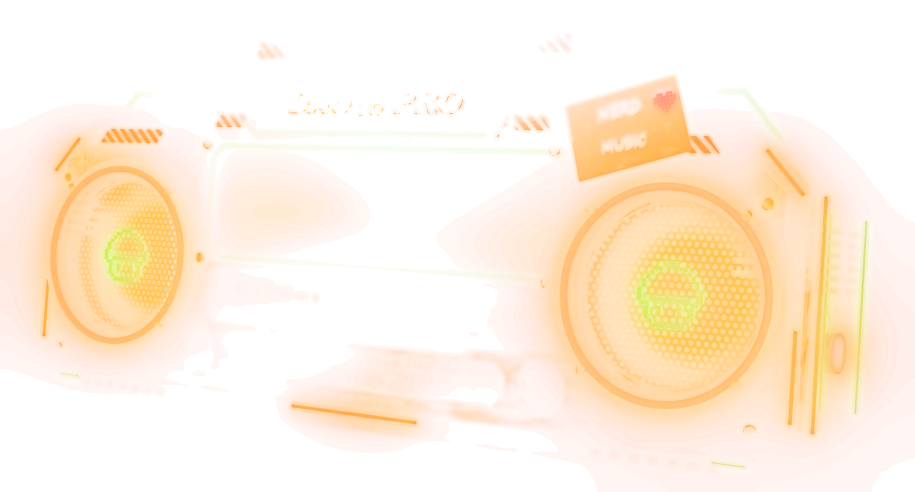
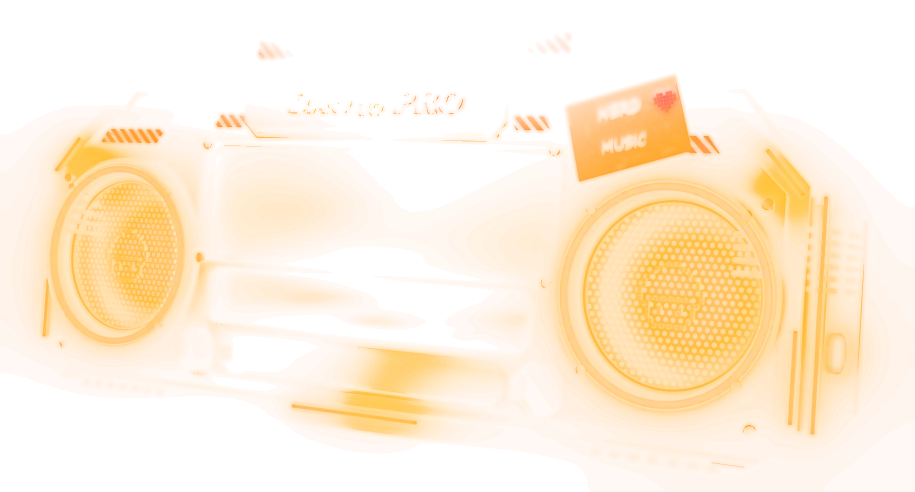
NERD RADIO: ruhiges Metall statt Foto-Texturen, Tastensymbole perspektivisch, Licht nur bei Musik

diff --git a/dau-to-pro/nerd-radio.css b/dau-to-pro/nerd-radio.css
@@ -39,7 +39,9 @@
 
 /* ---------- Echtes Licht: Lichtebenen (Deckkraft = Lichtstärke), Helligkeit folgt der Musik ---------- */
 .nr-light{position:absolute;inset:0;z-index:2;width:100%;height:100%;display:block;pointer-events:none;user-select:none;
-  opacity:.75;will-change:opacity}
+  opacity:.06;will-change:opacity}
+/* Ein- und Ausschalten weich, beim Abspielen folgt die Helligkeit direkt der Musik */
+.nr-device:not([data-state=playing]) .nr-light{transition:opacity .8s ease-out}
 
 /* ---------- Schräge Front: Display und Regler werden per matrix3d auf die Gehäusefront gelegt ---------- */
 .nr-face{position:absolute;left:0;top:0;z-index:3;width:1000px;height:450px;transform-origin:0 0;pointer-events:none;container-type:size;visibility:hidden}
@@ -98,15 +100,12 @@
 .nr-transport,.nr-lower{display:contents}
 .nr-key{position:absolute;z-index:4;display:grid;place-items:center;margin:0;padding:0;border:0;cursor:pointer;color:#eafaff;
   background:center/100% 100% no-repeat;transition:filter .16s;-webkit-tap-highlight-color:transparent}
-.nr-key svg{rotate:var(--nr-roll,0deg);width:30%;height:34%;fill:currentColor;filter:drop-shadow(0 0 .45cqw currentColor);pointer-events:none;transition:transform .07s}
+/* Die Symbole sind perspektivisch in die Tasten-Renders eingebaut; die SVGs bleiben nur als Rückfall im Markup */
+.nr-key svg{display:none}
 .nr-key:hover{filter:brightness(1.18) saturate(1.15) drop-shadow(0 0 .7cqw #22dcf577)}
-.nr-key:active svg,.nr-key.is-down svg{transform:translateY(4%) scale(.96)}
 .nr-key:focus-visible{outline:.32cqw solid #fff;outline-offset:-.6cqw;border-radius:1cqw}
-.nr-key--play .nr-icon-pause{display:none}
 .nr-device[data-state=playing] .nr-key--play{color:#ffc650}
 .nr-device[data-state=playing] .nr-key--play:hover{filter:brightness(1.15) drop-shadow(0 0 .8cqw #ff9a1488)}
-.nr-device[data-state=playing] .nr-key--play .nr-icon-play{display:none}
-.nr-device[data-state=playing] .nr-key--play .nr-icon-pause{display:block}
 .nr-key--gold{color:#ffc53d}
 .nr-key--round svg{width:42%;height:42%}
 .nr-key--gold-rim,.nr-key--round[aria-pressed=true]{color:#ffd06a}

diff --git a/dau-to-pro/nerd-radio.js b/dau-to-pro/nerd-radio.js
@@ -327,18 +327,21 @@
     ui.play.setAttribute('aria-label', playing ? 'Pause' : 'Abspielen');
     const t = current();
     ui.status.textContent = playing ? `Spielt: ${two(selected + 1)} – ${t.title}` : next === 'paused' ? 'Pausiert' : 'Gestoppt';
-    if (next === 'stopped') { bars.fill(0); peaks.fill(0); waveAmp = 0; bass = 0; treble = 0; applyBass(); }
+    if (next === 'stopped') { bars.fill(0); peaks.fill(0); waveAmp = 0; bass = 0; treble = 0; }
+    applyBass();
     render();
     wake();
   }
 
   // Echte Beleuchtung: die gerenderten Lichtebenen werden mit der Musik heller und dunkler.
   // Gold (Lautsprecherringe, Schultern, Sockel) folgt dem Bass, Cyan (Neonrahmen, Pilze) den Höhen.
+  // Ohne Musik sind die Leuchten aus (nur ein schwacher Bereitschaftsschimmer).
+  const STANDBY = 0.06;
   function applyBass() {
-    const calm = reduced.matches;
+    const calm = reduced.matches, on = state === 'playing';
     ui.cones.forEach(c => { c.style.transform = calm || !bass ? '' : `scale(${(1 + bass * 0.025).toFixed(3)})`; });
-    const gold = calm ? 0.85 : 0.62 + 0.38 * Math.min(1, bass * 1.35);
-    const cyan = calm ? 0.85 : 0.65 + 0.35 * Math.min(1, treble * 1.8);
+    const gold = !on ? STANDBY : calm ? 0.9 : 0.3 + 0.7 * Math.min(1, bass * 1.5);
+    const cyan = !on ? STANDBY : calm ? 0.9 : 0.4 + 0.6 * Math.min(1, treble * 2);
     const key = gold.toFixed(2) + cyan.toFixed(2);
     if (key === lastLight) return;
     lastLight = key;

diff --git a/dau-to-pro/nerd-radio/layout.css b/dau-to-pro/nerd-radio/layout.css
@@ -1,5 +1,5 @@
 /* Generiert von tools/nerd-radio/build_boombox.py – nicht von Hand ändern. */
-.nr-device{aspect-ratio:1830/984;--nr-face:"0.06271 0.06648 0.92512 0.00704 0.89320 1.01800 0.03367 0.78560";--nr-roll:0deg}
+.nr-device{aspect-ratio:1830/984;--nr-face:"0.06271 0.06648 0.92512 0.00704 0.89320 1.01800 0.03367 0.78560"}
 .nr-speaker--l{left:6.261%;top:33.973%;width:15.600%;height:37.028%}
 .nr-speaker--l .nr-speaker__cone{background-image:url(cone-0.webp)}
 .nr-speaker--r{left:61.772%;top:37.416%;width:23.852%;height:47.203%}

diff --git a/tools/nerd-radio/build_boombox.py b/tools/nerd-radio/build_boombox.py
@@ -8,9 +8,6 @@ Cyan und Gold, Membranen, Tasten je Platz und Zustand), layout.css und anchors.j
 Bedienelemente. Die Website legt echte HTML-Tasten, Display und Regler darüber.
 Im Gehäuse-Render sind deshalb keine Tasten und keine Anzeige enthalten.
 
-Metalloberflächen nutzen CC0-Foto-Texturen von Poly Haven (metal_plate_02, rusty_painted_metal,
-rusty_metal_02). Das Skript lädt sie beim ersten Lauf nach tools/nerd-radio/textures/ (nicht im Repo).
-
 Koordinaten: Entwurf im 1000 x 450 Layoutraster (x nach rechts, y nach unten),
 1 Blender-Einheit = 100 Layoutpixel. Vorderseite des Korpus liegt bei Y = 0,
 der Korpus reicht nach hinten (+Y). Kamera blickt von vorn (-Y) leicht von oben.
@@ -109,36 +106,6 @@ def subtract(target, *cutters):
         w, s = bev.width, bev.segments; target.modifiers.remove(bev)
         b = target.modifiers.new('bevel', 'BEVEL'); b.width = w; b.segments = s; b.limit_method = 'ANGLE'
 
-# ---------------------------------------------------------------- Foto-Texturen (Poly Haven, CC0)
-# Werden beim ersten Lauf von Poly Haven geladen und in tools/nerd-radio/textures/ zwischengespeichert
-# (per .gitignore nicht im Repo). Fehlen sie und es gibt kein Netz, bleibt es bei den prozeduralen Materialien.
-TEX_DIR = os.path.join(os.path.dirname(os.path.abspath(__file__)), 'textures')
-TEXTURES = {'metal_plate_02': ('Diffuse', 'nor_gl', 'Rough'),
-            'rusty_painted_metal': ('Diffuse',),
-            'rusty_metal_02': ('Diffuse',)}
-def fetch_textures():
-    import urllib.request
-    have = {}
-    for asset, maps in TEXTURES.items():
-        try:
-            files = None
-            for m in maps:
-                path = os.path.join(TEX_DIR, f'{asset}_{m}_2k.jpg')
-                if not os.path.exists(path):
-                    if files is None:
-                        req = urllib.request.Request(f'https://api.polyhaven.com/files/{asset}', headers={'User-Agent': 'nerd-radio-build'})
-                        files = json.load(urllib.request.urlopen(req, timeout=30))
-                    url = files[m]['2k']['jpg']['url']
-                    os.makedirs(TEX_DIR, exist_ok=True)
-                    req = urllib.request.Request(url, headers={'User-Agent': 'nerd-radio-build'})
-                    with urllib.request.urlopen(req, timeout=120) as r, open(path + '.part', 'wb') as f: f.write(r.read())
-                    os.replace(path + '.part', path); print('TEXTURE', os.path.basename(path))
-                have.setdefault(asset, {})[m] = path
-        except Exception as e:
-            print('TEXTURE fehlt', asset, e); have.pop(asset, None)
-    return have
-TEX = fetch_textures()
-
 # ---------------------------------------------------------------- Materialien
 def nodes(mat):
     mat.use_nodes = True; nt = mat.node_tree
@@ -197,71 +164,33 @@ def edge_mask(nt, radius=0.012, gain=7.0):
     inv = math_node(nt, 'SUBTRACT', 1.0, dot.outputs['Value'])
     return math_node(nt, 'MULTIPLY', inv, gain, clamp=True)
 
-def tex(nt, asset, m, scale=0.55, color=False):
-    """Foto-Textur per Box-Projektion in Weltkoordinaten (keine UVs nötig, keine Verzerrung bei skalierten Objekten)."""
-    if m not in TEX.get(asset, {}): return None
-    img = bpy.data.images.load(TEX[asset][m], check_existing=True)
-    img.colorspace_settings.name = 'sRGB' if color else 'Non-Color'
-    n = nt.nodes.new('ShaderNodeTexImage'); n.image = img; n.projection = 'BOX'; n.projection_blend = 0.25
-    geo = nt.nodes.new('ShaderNodeNewGeometry'); mp = nt.nodes.new('ShaderNodeMapping')
-    mp.inputs['Scale'].default_value = (scale,) * 3
-    seed = sum(map(ord, asset + name_seed[0]))   # fester Versatz je Material, damit sich das Muster nicht wiederholt
-    mp.inputs['Location'].default_value = (seed % 97 / 97, seed % 89 / 89, seed % 83 / 83)
-    nt.links.new(geo.outputs['Position'], mp.inputs[0]); nt.links.new(mp.outputs[0], n.inputs['Vector'])
-    return n.outputs['Color']
-name_seed = ['']
-def lum(nt, c):
-    n = nt.nodes.new('ShaderNodeRGBToBW'); nt.links.new(c, n.inputs[0]); return n.outputs[0]
-
-def math_vec_scale(nt, c, k):
-    n = nt.nodes.new('ShaderNodeVectorMath'); n.operation = 'SCALE'; nt.links.new(c, n.inputs[0]); n.inputs['Scale'].default_value = k
-    return n.outputs[0]
-
 def mat_metal(name, base=(0.05, 0.06, 0.07), rust=0.55, wear=1.0, rough=0.42):
     """Dunkles Gunmetal mit Kantenabrieb, Kratzern, Schmutz und Rostflecken."""
-    m = bpy.data.materials.new(name); nt = nodes(m); name_seed[0] = name
+    m = bpy.data.materials.new(name); nt = nodes(m)
     b = principled(nt, **{'Metallic': 1.0, 'Roughness': rough})
     grime = noise(nt, 6, 8, 0.6).outputs['Fac']
-    col = mix_color(nt, ramp(nt, grime, [(0.35, (0, 0, 0)), (0.7, (1, 1, 1))]), base, tuple(c * 1.6 for c in base))
-    plate = tex(nt, 'metal_plate_02', 'Diffuse', color=True)
-    if plate:   # Fotostruktur der Metallplatte, auf den dunklen Grundton eingefärbt
-        tint = nt.nodes.new('ShaderNodeMix'); tint.data_type = 'RGBA'; tint.blend_type = 'MULTIPLY'
-        sock(tint, 'Factor_Float').default_value = 1.0
-        nt.links.new(col, sock(tint, 'A_Color')); nt.links.new(plate, sock(tint, 'B_Color'))
-        col = math_vec_scale(nt, sock(tint, 'Result_Color'), 3.2)
+    col = mix_color(nt, ramp(nt, grime, [(0.3, (0, 0, 0)), (0.75, (1, 1, 1))]), base, tuple(c * 1.25 for c in base))
     # Rost: großflächige Flecken, bevorzugt an Rändern und in Vertiefungen
     rn = noise(nt, 2.2, 10, 0.7).outputs['Fac']
     rmask = ramp(nt, rn, [(0.58 - 0.12 * rust, (0, 0, 0)), (0.66 - 0.1 * rust, (1, 1, 1))])
     rmask = math_node(nt, 'MULTIPLY', ramp(nt, noise(nt, 18, 4).outputs['Fac'], [(0.4, (0.2, 0.2, 0.2)), (0.6, (1, 1, 1))]), rmask)
     rmask = math_node(nt, 'MULTIPLY', rmask, rust)
     rustc = mix_color(nt, noise(nt, 30, 3).outputs['Fac'], (0.16, 0.06, 0.02), (0.38, 0.17, 0.05))
-    rust_photo = tex(nt, 'rusty_metal_02', 'Diffuse', scale=0.8, color=True)
-    if rust_photo: rustc = mix_color(nt, 0.8, rustc, rust_photo)
-    paint = tex(nt, 'rusty_painted_metal', 'Diffuse', scale=0.7, color=True)
-    if paint:   # Rostflecken folgen zusätzlich der Fotovorlage
-        rmask = math_node(nt, 'MULTIPLY', rmask, ramp(nt, lum(nt, paint), [(0.25, (1.4, 1.4, 1.4)), (0.6, (0.5, 0.5, 0.5))]), clamp=True)
     col = mix_color(nt, rmask, col, rustc)
     # Kantenabrieb: blankes, helleres Metall an allen Fasen
     em = math_node(nt, 'MULTIPLY', edge_mask(nt), wear)
-    chip = lum(nt, paint) if paint else noise(nt, 40, 2).outputs['Fac']
-    em = math_node(nt, 'MULTIPLY', em, ramp(nt, chip, [(0.35, (0.25, 0.25, 0.25)), (0.55, (1, 1, 1))]))
+    em = math_node(nt, 'MULTIPLY', em, ramp(nt, noise(nt, 40, 2).outputs['Fac'], [(0.35, (0.25, 0.25, 0.25)), (0.55, (1, 1, 1))]))
     col = mix_color(nt, em, col, (0.42, 0.44, 0.46))
     nt.links.new(col, b.inputs['Base Color'])
     metal = math_node(nt, 'SUBTRACT', 1.0, rmask)
     nt.links.new(metal, b.inputs['Metallic'])
     scratches = noise(nt, 60, 2, 0.5, stretch=(1, 1, 40)).outputs['Fac']
     r = ramp(nt, scratches, [(0.45, (rough + 0.12,) * 3), (0.62, (rough - 0.18,) * 3)])
-    prough = tex(nt, 'metal_plate_02', 'Rough')
-    if prough: r = math_node(nt, 'ADD', math_node(nt, 'MULTIPLY', r, 0.55), math_node(nt, 'MULTIPLY', lum(nt, prough), 0.45 * rough / 0.42))
     r = math_node(nt, 'MAXIMUM', r, math_node(nt, 'MULTIPLY', rmask, 0.95))
     r = math_node(nt, 'SUBTRACT', r, math_node(nt, 'MULTIPLY', em, 0.18))
     nt.links.new(r, b.inputs['Roughness'])
     bump = nt.nodes.new('ShaderNodeBump'); bump.inputs['Strength'].default_value = 0.18
     nt.links.new(math_node(nt, 'ADD', math_node(nt, 'MULTIPLY', scratches, 0.4), math_node(nt, 'MULTIPLY', rmask, 1.2)), bump.inputs['Height'])
-    pnor = tex(nt, 'metal_plate_02', 'nor_gl')
-    if pnor:   # Normalen der Foto-Metallplatte (metal_plate_02), Bump für Kratzer und Rost oben drauf
-        nm = nt.nodes.new('ShaderNodeNormalMap'); nm.inputs['Strength'].default_value = 1.0
-        nt.links.new(pnor, nm.inputs['Color']); nt.links.new(nm.outputs['Normal'], bump.inputs['Normal'])
     nt.links.new(bump.outputs['Normal'], b.inputs['Normal'])
     return m
 
@@ -315,18 +244,21 @@ def mat_card(name):
     return m
 
 CYAN, GOLD, ORANGE = (0.0, 0.62, 1.0), (1.0, 0.42, 0.0), (1.0, 0.22, 0.0)
+GLASS = (0.035, 0.04, 0.045)
 M = {
-    'body': mat_metal('body', (0.024, 0.03, 0.038), rust=0.34, wear=1.4),
-    'panel': mat_metal('panel', (0.036, 0.043, 0.052), rust=0.26, wear=1.4, rough=0.36),
-    'dark': mat_metal('dark', (0.02, 0.023, 0.027), rust=0.15, wear=0.5, rough=0.5),
-    'handle': mat_metal('handle', (0.03, 0.035, 0.042), rust=0.3, rough=0.34),
-    'badge': mat_metal('badge', (0.045, 0.05, 0.056), rust=0.2, rough=0.3),
+    # Ruhiges, sauberes Gunmetal: nur leichter Kantenabrieb, kaum Rost (wirkt weniger nach CGI-Effekt)
+    'body': mat_metal('body', (0.04, 0.046, 0.054), rust=0.06, wear=0.6, rough=0.38),
+    'panel': mat_metal('panel', (0.055, 0.062, 0.072), rust=0.04, wear=0.6, rough=0.34),
+    'dark': mat_metal('dark', (0.026, 0.03, 0.035), rust=0.0, wear=0.3, rough=0.48),
+    'handle': mat_metal('handle', (0.045, 0.05, 0.058), rust=0.04, wear=0.6, rough=0.32),
+    'badge': mat_metal('badge', (0.07, 0.076, 0.084), rust=0.0, wear=0.5, rough=0.28),
     'chrome': mat_simple('chrome', (0.85, 0.88, 0.9), 1.0, 0.12),
     'goldmetal': mat_simple('goldmetal', (1.0, 0.68, 0.18), 1.0, 0.22),
-    'neon_c': mat_simple('neon_c', CYAN, emit=CYAN, strength=2.6),
-    'neon_g': mat_simple('neon_g', GOLD, emit=GOLD, strength=2.6),
-    'ring_g': mat_simple('ring_g', GOLD, emit=GOLD, strength=2.0),
-    'pixel_c': mat_simple('pixel_c', CYAN, emit=CYAN, strength=2.2),
+    # Leuchtmittel: ausgeschaltet dunkles Glas (kein farbiger Schein ohne Musik), Farbe nur über die Emission
+    'neon_c': mat_simple('neon_c', GLASS, rough=0.2, emit=CYAN, strength=2.6),
+    'neon_g': mat_simple('neon_g', GLASS, rough=0.2, emit=GOLD, strength=2.6),
+    'ring_g': mat_simple('ring_g', GLASS, rough=0.2, emit=GOLD, strength=2.0),
+    'pixel_c': mat_simple('pixel_c', GLASS, rough=0.3, emit=CYAN, strength=2.2),
     'hazard': mat_hazard('hazard'),
     'grille': mat_grille('grille'),
     'card': mat_card('card'),
@@ -511,6 +443,45 @@ def key(name, box, rim_mat, depth_front, cut=12):
     base = prism(f'key_{name}_rim', rect(x0, y0, x1, y1, cut), depth_front + 0.035, 0.12, rim_mat, bevel=0.01, coll='keys')
     cap = prism(f'key_{name}_cap', rect(x0 + 3.5, y0 + 3.5, x1 - 3.5, y1 - 3.5, cut - 2), depth_front, 0.16, M['keycap'], bevel=0.025, segs=4, coll='keys')
     return base, cap
+# Tastensymbole als leuchtende Geometrie auf der Kappe: sitzen perspektivisch exakt (24er-Raster wie die SVG-Icons)
+def bezier(p0, p1, p2, p3, n=14):
+    return [tuple((1 - t) ** 3 * a + 3 * (1 - t) ** 2 * t * b + 3 * (1 - t) * t ** 2 * c + t ** 3 * d for a, b, c, d in zip(p0, p1, p2, p3))
+            for t in (i / n for i in range(n + 1))]
+ICONS = {
+    'prev': {'polys': [[(4, 5), (6.6, 5), (6.6, 19), (4, 19)], [(14, 5), (14, 19), (7.4, 12)], [(21.5, 5), (21.5, 19), (15, 12)]]},
+    'next': {'polys': [[(20, 5), (17.4, 5), (17.4, 19), (20, 19)], [(10, 5), (16.6, 12), (10, 19)], [(2.5, 5), (9, 12), (2.5, 19)]]},
+    'stop': {'polys': [[(5.5, 5.5), (18.5, 5.5), (18.5, 18.5), (5.5, 18.5)]]},
+    'play': {'polys': [[(7, 4.5), (19.5, 12), (7, 19.5)]]},
+    'pause': {'polys': [[(6, 4.5), (10.4, 4.5), (10.4, 19.5), (6, 19.5)], [(13.6, 4.5), (18, 4.5), (18, 19.5), (13.6, 19.5)]]},
+    'shuffle': {'polys': [[(18, 3.2), (22.2, 7), (18, 10.8)], [(18, 13.2), (22.2, 17), (18, 20.8)]],
+                'strokes': [[(3, 7)] + bezier((6.5, 7), (11, 7), (13, 17), (17.5, 17)) + [(19, 17)],
+                            [(3, 17)] + bezier((6.5, 17), (8.3, 17), (9.5, 15.4), (10.5, 13.6)),
+                            bezier((13.5, 9.4), (14.5, 7.8), (15.7, 7), (17.5, 7)) + [(19, 7)]], 'width': 2.6},
+    'mode': {'rings': [(5.4, 1.4)],
+             'polys': [[(12 + r * math.cos(a), 12 + r * math.sin(a)) for r, a in
+                        [(6.5, k * math.pi / 4 + t * 0.39 / 4) for t in range(5)] + [(9.9, k * math.pi / 4 + t * 0.39 / 4) for t in range(4, -1, -1)]]
+                       for k in range(8)]},
+    'list': {'dots': [(4.5, 6, 2), (4.5, 12, 2), (4.5, 18, 2)],
+             'polys': [[(9, y), (21, y), (21, y + 2.6), (9, y + 2.6)] for y in (4.8, 10.8, 16.8)]},
+}
+def key_icon(icon, box, front, mat, round_key):
+    x0, y0, x1, y1 = box; cx, cy = (x0 + x1) / 2, (y0 + y1) / 2
+    size = (x1 - x0) * 0.44 if round_key else (y1 - y0) * 0.38
+    sc = size / 24
+    pt = lambda u, v: (cx + (u - 12) * sc, cy + (v - 12) * sc)
+    f, d = front - 0.01, 0.014
+    spec = ICONS[icon]
+    for i, poly in enumerate(spec.get('polys', [])):
+        prism(f'icon_{icon}_{i}', [pt(u, v) for u, v in poly], f, d, mat, bevel=0.002, segs=1, coll='keys')
+    for i, stroke in enumerate(spec.get('strokes', [])):
+        tube(f'icon_{icon}_s{i}', [pt(u, v) for u, v in stroke], f + d / 2, spec['width'] / 2 * sc / 100, mat, coll='keys')
+    for i, (r, w) in enumerate(spec.get('rings', [])):
+        torus(f'icon_{icon}_r{i}', *pt(12, 12), r * sc, w * sc, f + d / 2, mat, coll='keys')
+    for i, (u, v, r) in enumerate(spec.get('dots', [])):
+        cyl(f'icon_{icon}_d{i}', *pt(u, v), r * sc, f, d, mat, verts=32, coll='keys', bevel=0)
+ICON_MAT = {'white': mat_simple('icon_w', (0.85, 0.97, 1.0), emit=(0.75, 0.95, 1.0), strength=1.4),
+            'gold': mat_simple('icon_g', (1.0, 0.75, 0.3), emit=(1.0, 0.62, 0.15), strength=1.6)}
+
 RIM = {'cyan': mat_simple('rim_c', CYAN, emit=CYAN, strength=0.75), 'orange': mat_simple('rim_o', ORANGE, emit=ORANGE, strength=1.1),
        'gold': mat_simple('rim_g', GOLD, emit=GOLD, strength=0.75)}
 
@@ -518,8 +489,8 @@ RIM = {'cyan': mat_simple('rim_c', CYAN, emit=CYAN, strength=0.75), 'orange': ma
 world = bpy.data.worlds.new('w'); scene.world = world; wn = nodes(world)
 bg = wn.nodes.new('ShaderNodeBackground'); bg.inputs['Color'].default_value = (0.012, 0.016, 0.022, 1); bg.inputs['Strength'].default_value = 1.0
 wo = wn.nodes.new('ShaderNodeOutputWorld'); wn.links.new(bg.outputs[0], wo.inputs[0])
-# Studiolicht nur noch als schwaches Grundlicht: beleuchtet wird das Gerät von seinen eigenen Leuchten
-STUDIO = 0.22
+# Studiolicht als Grundlicht (Gerät bleibt auch ohne Musik gut sichtbar); Akzente setzen die eigenen Leuchten
+STUDIO = 0.6
 def light(name, loc, power, size, color=(1, 1, 1), target=(0, 0, 0)):
     ld = bpy.data.lights.new(name, 'AREA'); ld.energy = power * STUDIO; ld.size = size; ld.color = color
     ob = bpy.data.objects.new(name, ld); scene.collection.objects.link(ob); ob.location = loc
@@ -528,8 +499,8 @@ def light(name, loc, power, size, color=(1, 1, 1), target=(0, 0, 0)):
     return ob
 light('key', (-5, -6, 7), 1300, 3)
 light('top', (0, -0.5, 8), 650, 7, (0.85, 0.92, 1.0))
-light('rim_c', (-8, 4, 3.5), 5200, 3, (0.15, 0.7, 1.0))
-light('rim_o', (8, 4, 3.5), 4200, 3, (1.0, 0.5, 0.1))
+light('rim_c', (-8, 4, 3.5), 3200, 3, (0.8, 0.9, 1.0))   # neutrale Kantenlichter: Farbe kommt nur von den Leuchten
+light('rim_o', (8, 4, 3.5), 2600, 3, (1.0, 0.94, 0.86))
 light('fill', (3, -8, -1), 160, 8, (0.6, 0.8, 1.0))
 light('graze', (-9, -1.2, 1.2), 2600, 1.2, (0.9, 0.95, 1.0), target=(2, 0, 0.3))
 light('sheen', (2.5, -9, 4.5), 900, 2.5, (1.0, 0.9, 0.8))
@@ -569,8 +540,8 @@ scene.cycles.samples = 96 if PREVIEW else 512
 scene.cycles.use_denoising = True
 scene.render.film_transparent = True
 scene.view_settings.view_transform = 'AgX'
-scene.view_settings.look = 'AgX - Punchy'
-scene.view_settings.exposure = -0.1
+scene.view_settings.look = 'AgX - Medium High Contrast'
+scene.view_settings.exposure = 0.1
 # Bloom: Neon strahlt, und der Schein bleibt im transparenten Bild erhalten
 try:
     tree = bpy.data.node_groups.new('bloom', 'CompositorNodeTree')
@@ -582,7 +553,7 @@ try:
     for k, v in (('glare_type', 'BLOOM'), ('quality', 'HIGH')):
         try: setattr(gl, k, v)
         except Exception: pass
-    for name, val in (('Type', 'Bloom'), ('Threshold', 0.9), ('Strength', 0.9), ('Size', 0.7), ('Quality', 'High')):
+    for name, val in (('Type', 'Bloom'), ('Threshold', 1.2), ('Strength', 0.5), ('Size', 0.55), ('Quality', 'High')):
         s = gl.inputs.get(name)
         if s is not None:
             try: s.default_value = val
@@ -630,7 +601,7 @@ def emit(group_factors):
             m.node_tree.nodes['Principled BSDF'].inputs['Emission Strength'].default_value = BASE_EMIT[m.name] * group_factors.get(g, 0)
 # Lichtquellen an den Röhren: werfen das Neonlicht sichtbar auf Metall, Gitter und Kanten
 def glow_lamp(name, loc, power, radius, color, group):
-    ld = bpy.data.lights.new(name, 'POINT'); ld.energy = power * 2.2; ld.shadow_soft_size = radius; ld.color = color
+    ld = bpy.data.lights.new(name, 'POINT'); ld.energy = power * 1.8; ld.shadow_soft_size = radius; ld.color = color
     ob = bpy.data.objects.new(name, ld); scene.collection.objects.link(ob); ob.location = loc; ob.visible_camera = False
     ob['group'] = group; return ob
 for i, (x, y) in enumerate(SPK):
@@ -689,7 +660,7 @@ if ONLY in (None, 'chassis'):
     # Enthalten die Röhren selbst, ihren Schein und das Licht, das auf Metall, Gitter und Kanten fällt.
     visible('chassis', 'cones'); lamps(False); compositing(True); scene.render.film_transparent = False; png(False)
     for g in GROUPS:
-        lamps(False, g); emit({g: 1.6}); render(os.path.join(RAW, f'light-{g}.png'), CHASSIS)
+        lamps(False, g); emit({g: 2.2}); render(os.path.join(RAW, f'light-{g}.png'), CHASSIS)
     emit({g: 1.0 for g in GROUPS}); lamps(True); compositing(False); scene.render.film_transparent = True; png(True)
 
 if ONLY in (None, 'cones'):
@@ -699,14 +670,17 @@ if ONLY in (None, 'cones'):
 
 if ONLY in (None, 'keys'):
     # Jede Taste an ihrem Platz, weil die Perspektive links und rechts verschieden ist
-    variants = [(s, 'cyan', '') for s in ('prev', 'stop', 'next', 'shuffle')] + [('play', 'cyan', ''), ('play', 'orange', '-on'),
-                ('mode', 'cyan', ''), ('mode', 'gold', '-on'), ('list', 'gold', '')]
+    # (Platz, Rahmenfarbe, Dateizusatz, Symbol, Symbolfarbe)
+    variants = [(s, 'cyan', '', s, 'white') for s in ('prev', 'stop', 'next')] + [('shuffle', 'cyan', '', 'shuffle', 'gold'),
+                ('play', 'cyan', '', 'play', 'white'), ('play', 'orange', '-on', 'pause', 'gold'),
+                ('mode', 'cyan', '', 'mode', 'white'), ('mode', 'gold', '-on', 'mode', 'gold'), ('list', 'gold', '', 'list', 'gold')]
     visible('keys'); emit({}); lamps(True); compositing(False); png(True)
-    for slot, rim, suffix in variants:
+    for slot, rim, suffix, icon, icol in variants:
         for state, front in (('up', -0.13), ('down', -0.06)):
             if 'keys' in bpy.data.collections:
                 for ob in list(bpy.data.collections['keys'].objects): bpy.data.objects.remove(ob, do_unlink=True)
             key(slot, KEYS[slot], RIM[rim], front, 16 if slot in ('mode', 'list') else 12)
+            key_icon(icon, KEYS[slot], front, ICON_MAT[icol], slot in ('mode', 'list'))
             strength = RIM[rim].node_tree.nodes['Principled BSDF'].inputs['Emission Strength']
             base = strength.default_value
             if state == 'down': strength.default_value = base * 1.8
@@ -765,7 +739,7 @@ def place(b):
 cw, ch = (CHASSIS[2] - CHASSIS[0]) * W, (CHASSIS[3] - CHASSIS[1]) * H
 quad = ' '.join(f'{v:.5f}' for p in anchors['face'] for v in p)
 lines = ['/* Generiert von tools/nerd-radio/build_boombox.py – nicht von Hand ändern. */',
-         f'.nr-device{{aspect-ratio:{round(cw)}/{round(ch)};--nr-face:"{quad}";--nr-roll:{-math.degrees(roll) + 0:g}deg}}']
+         f'.nr-device{{aspect-ratio:{round(cw)}/{round(ch)};--nr-face:"{quad}"}}']
 for i, side in enumerate(('l', 'r')):
     lines.append(f'.nr-speaker--{side}{{{place(anchors["cones"][i])}}}')
     lines.append(f'.nr-speaker--{side} .nr-speaker__cone{{background-image:url(cone-{i}.webp)}}')
